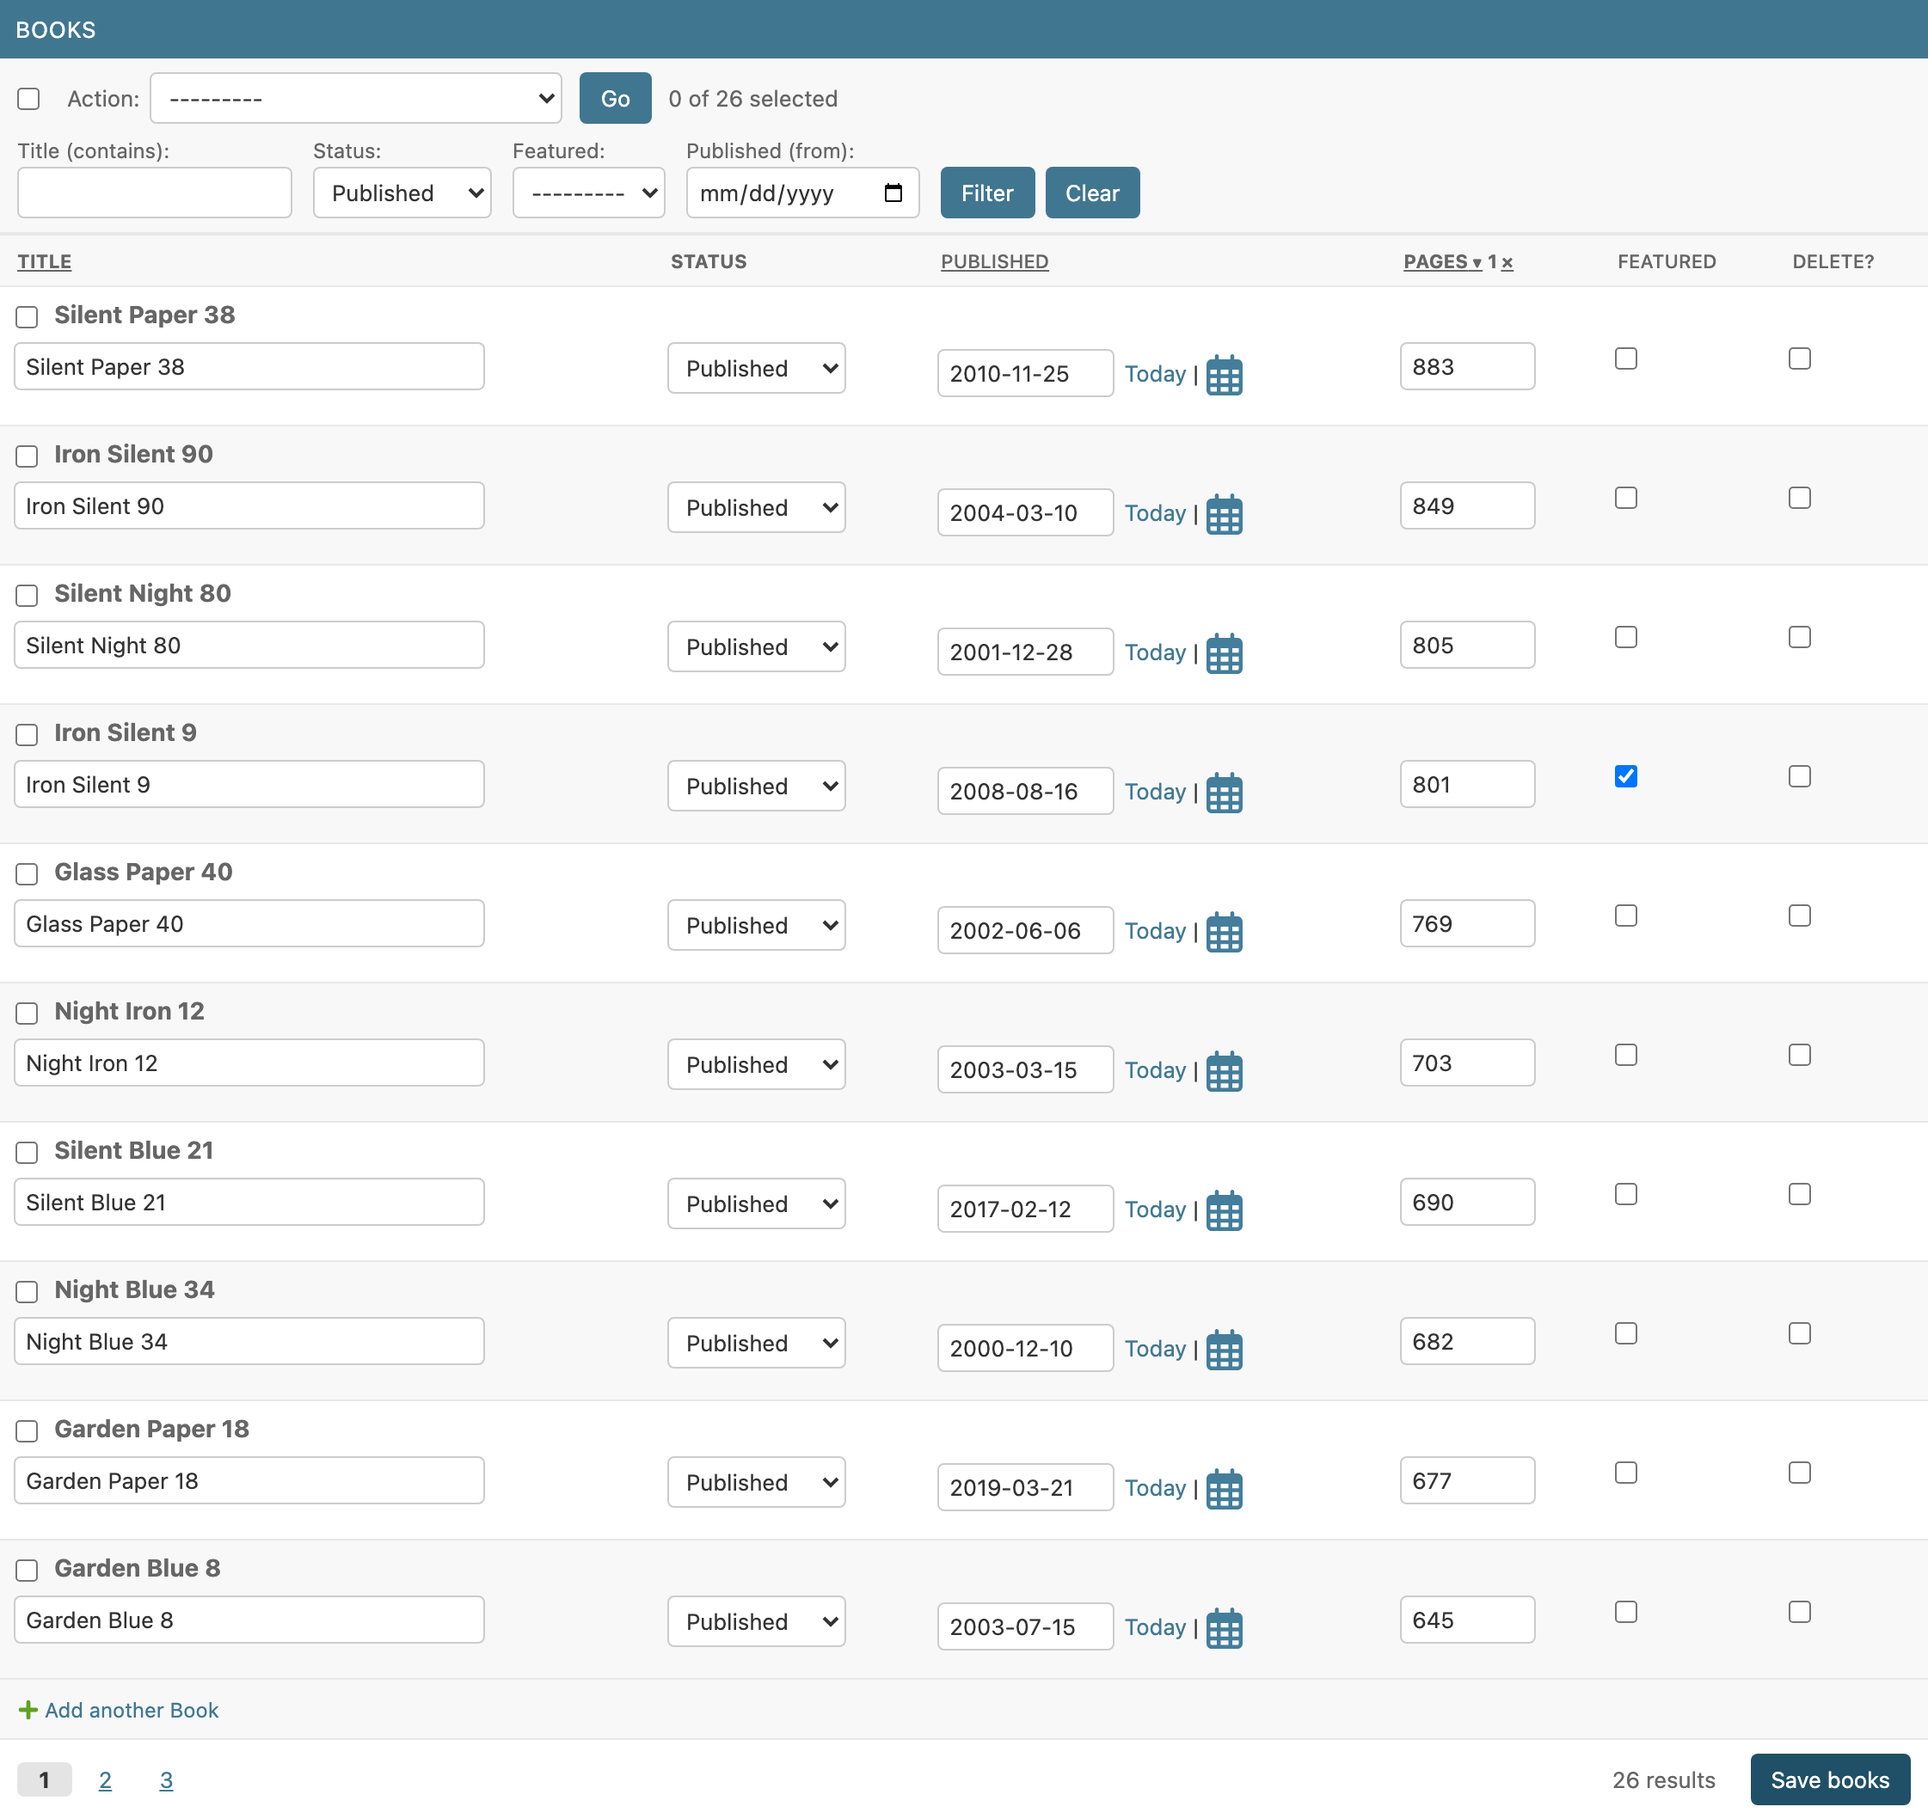
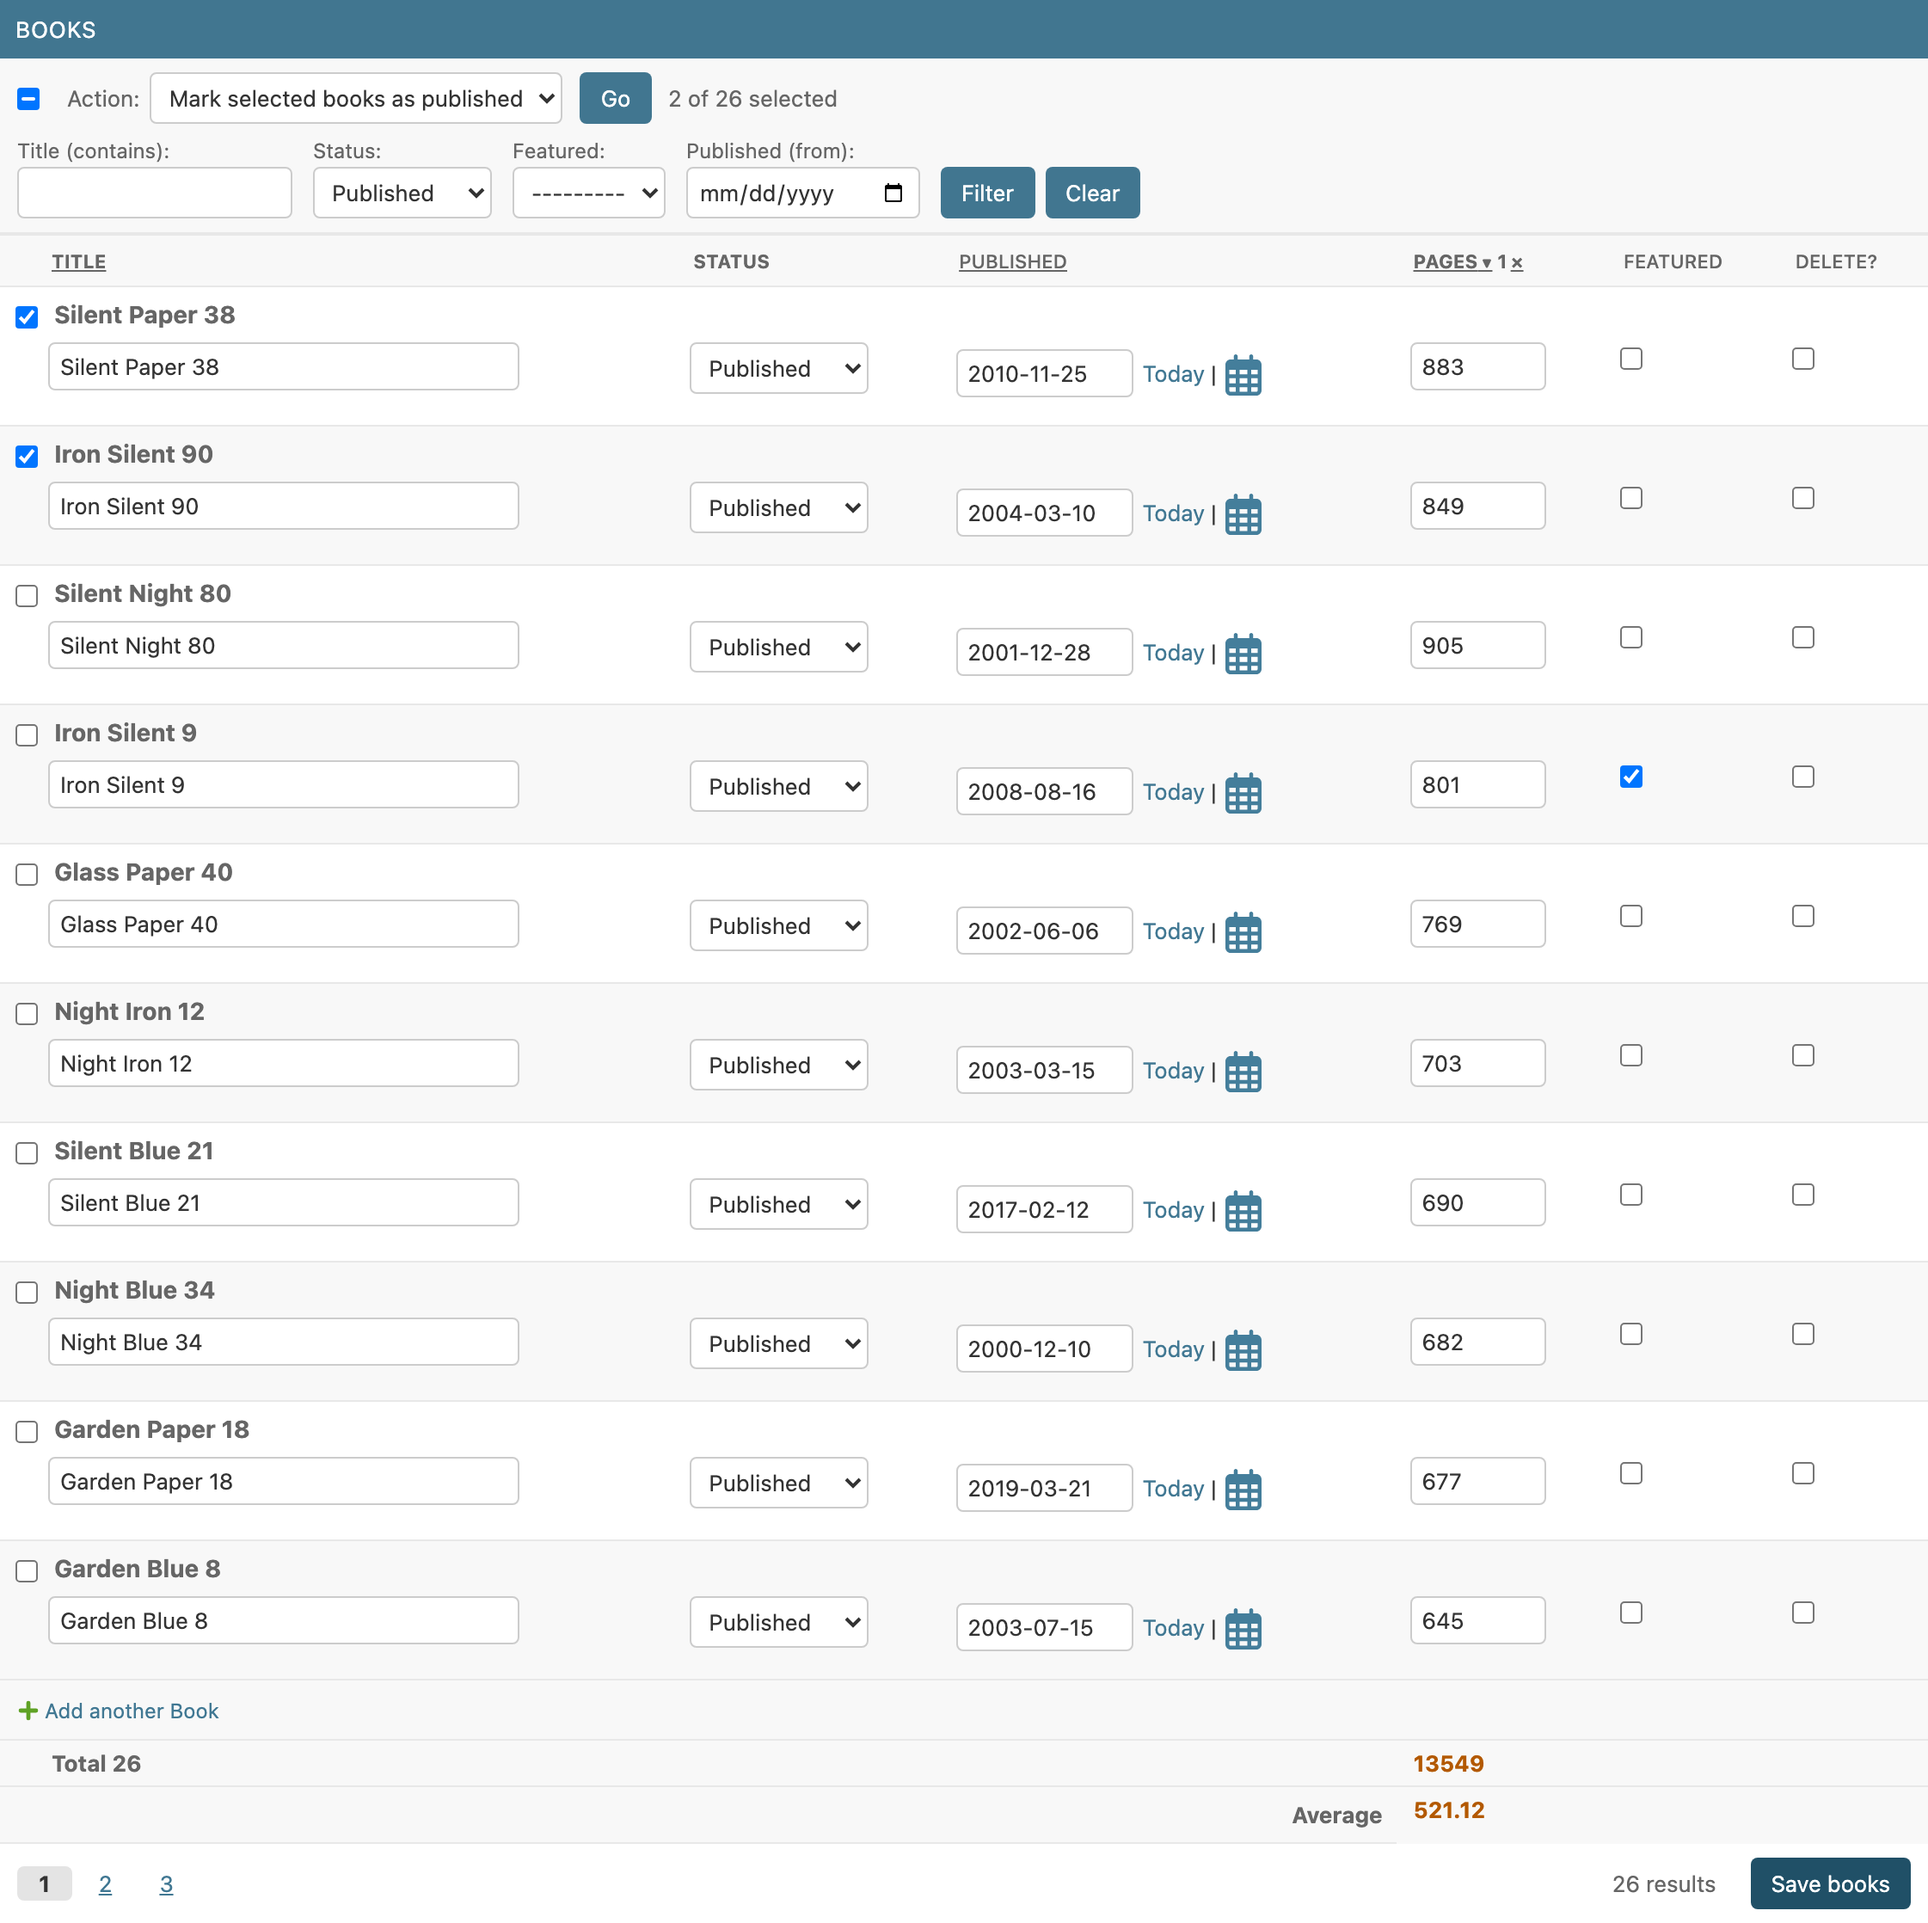
feat: update README screenshot description for clarity and relevance

diff --git a/README.md b/README.md
@@ -9,7 +9,7 @@
 Pagination, filtering and sortable columns for Django admin inlines —
 without leaving the change form.
 
-![A paginated, filtered and sorted tabular inline](docs/screenshots/hero.png)
+![A tabular inline with an action menu and two selected rows, filters, sorting by pages, live-updated Total and Average rows, page links and the Save books button](docs/screenshots/hero.png)
 
 - **Pagination**: page links, or infinite scroll that appends rows as you
   reach the end of the inline.
